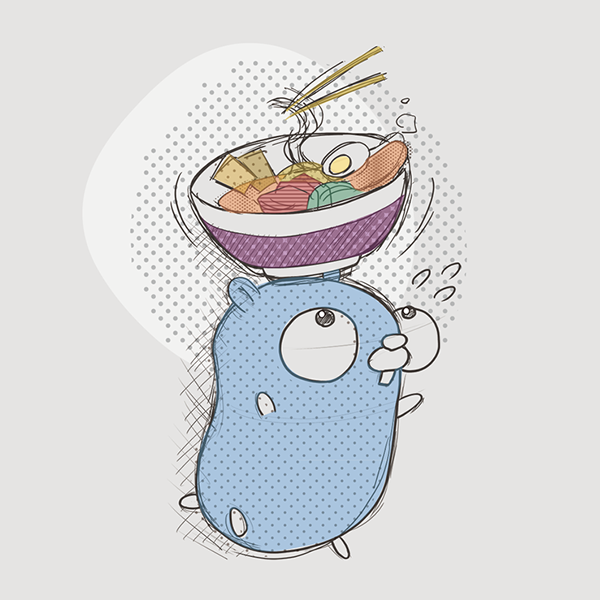
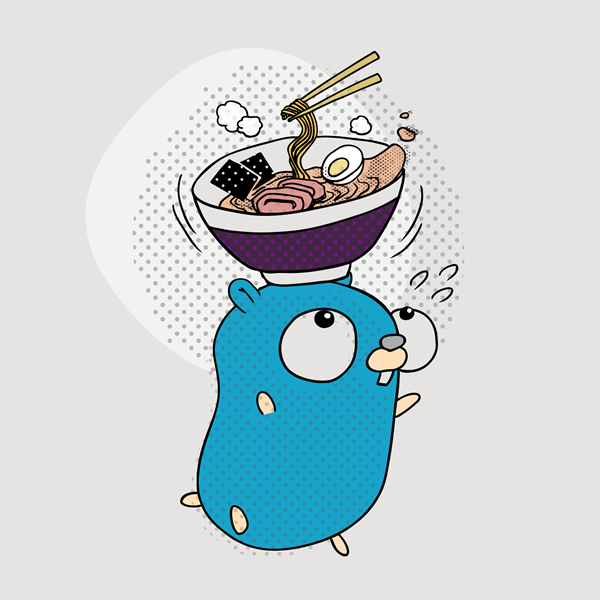
update images

Changed region(s): [[0.21, 0.06, 0.78, 0.93]]

diff --git a/components/Brand.vue b/components/Brand.vue
@@ -72,6 +72,18 @@ ja:
 
       <div class="inner">
         <picture class="eyecatch">
+          <source type="image/webp" srcset="~static/img/freehand-gopher-noodle.webp">
+          <img src="~assets/img/freehand-gopher-noodle.png" >
+        </picture>
+        <p>Gopher Noodle(freehand)</p>
+        <ul>
+          <li><nuxt-link class="button" :to="localePath({name: 'assets-slug', params: { slug: 'freehand-gopher-noodle-for-phone' }})">For Phone</nuxt-link></li>
+          <li><nuxt-link class="button" :to="localePath({name: 'assets-slug', params: { slug: 'freehand-gopher-noodle-for-laptop' }})">For Laptop</nuxt-link></li>
+        </ul>
+      </div>
+
+      <div class="inner">
+        <picture class="eyecatch">
           <source type="image/webp" srcset="~static/img/gopher-pattern.webp">
           <img src="~assets/img/gopher-pattern.png" >
         </picture>
@@ -104,8 +116,10 @@ ja:
 
 .inner {
   width: 400px;
+  height: 220px;
+  overflow: hidden;
   float: left;
-  padding: 2em 1em 0 0;
+  padding: 1.5em 1em 0 0;
 }
 .eyecatch {
   width: 200px;
@@ -137,6 +151,7 @@ ja:
   .inner,
   .logo .inner {
     width: 100%;
+    height: auto;
     float: none;
     padding-right: 0;
   }
